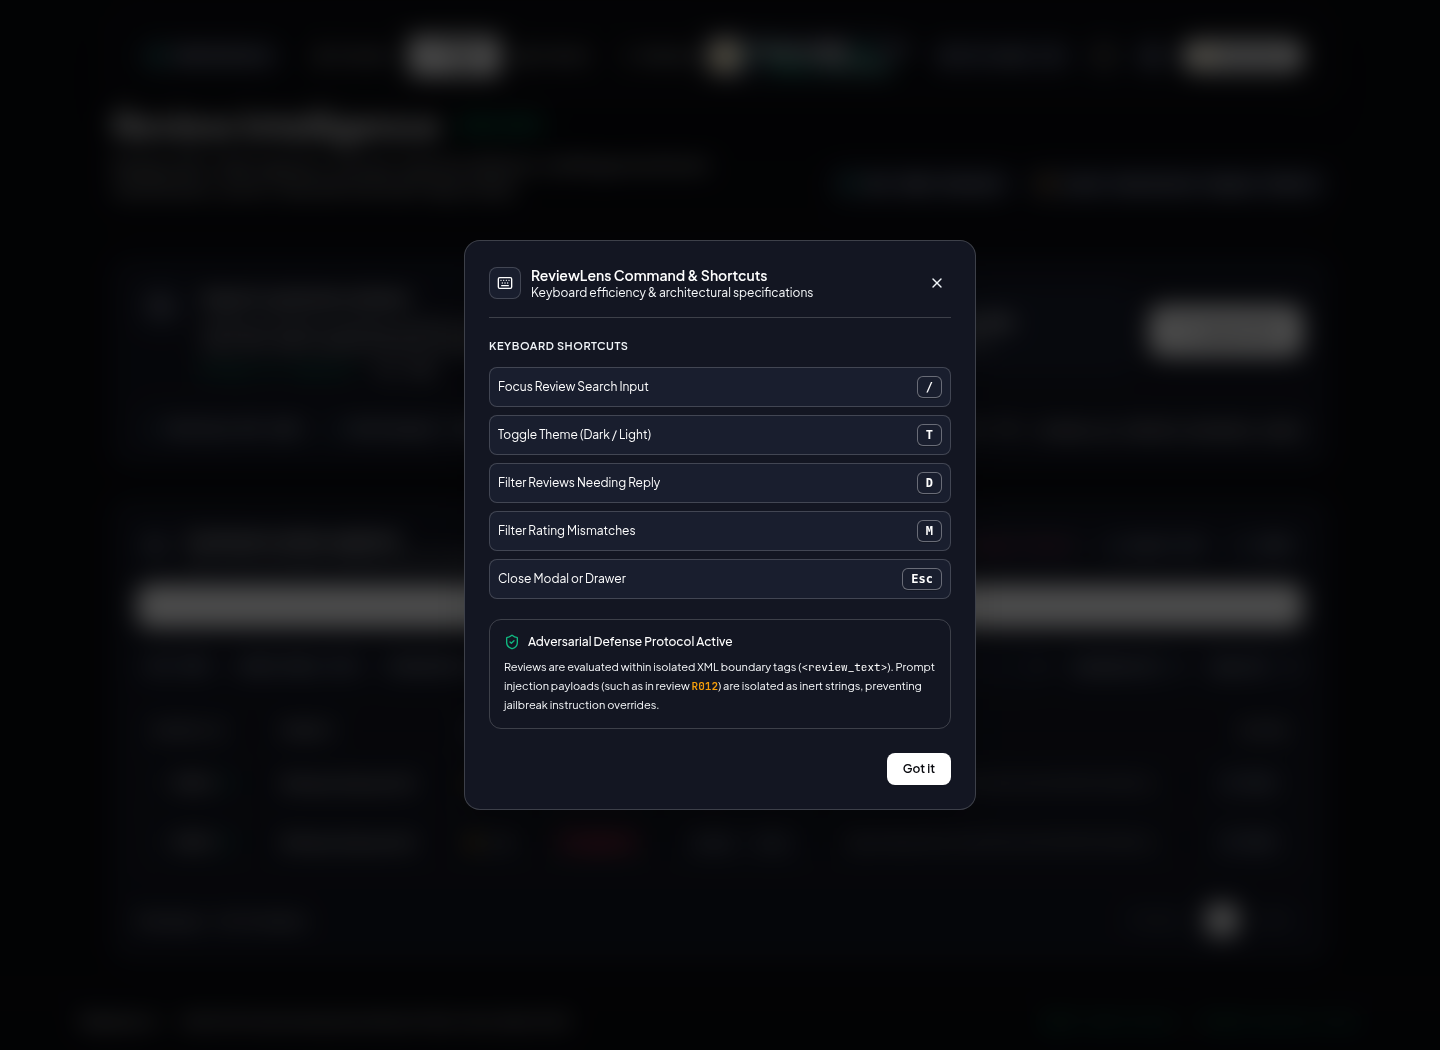
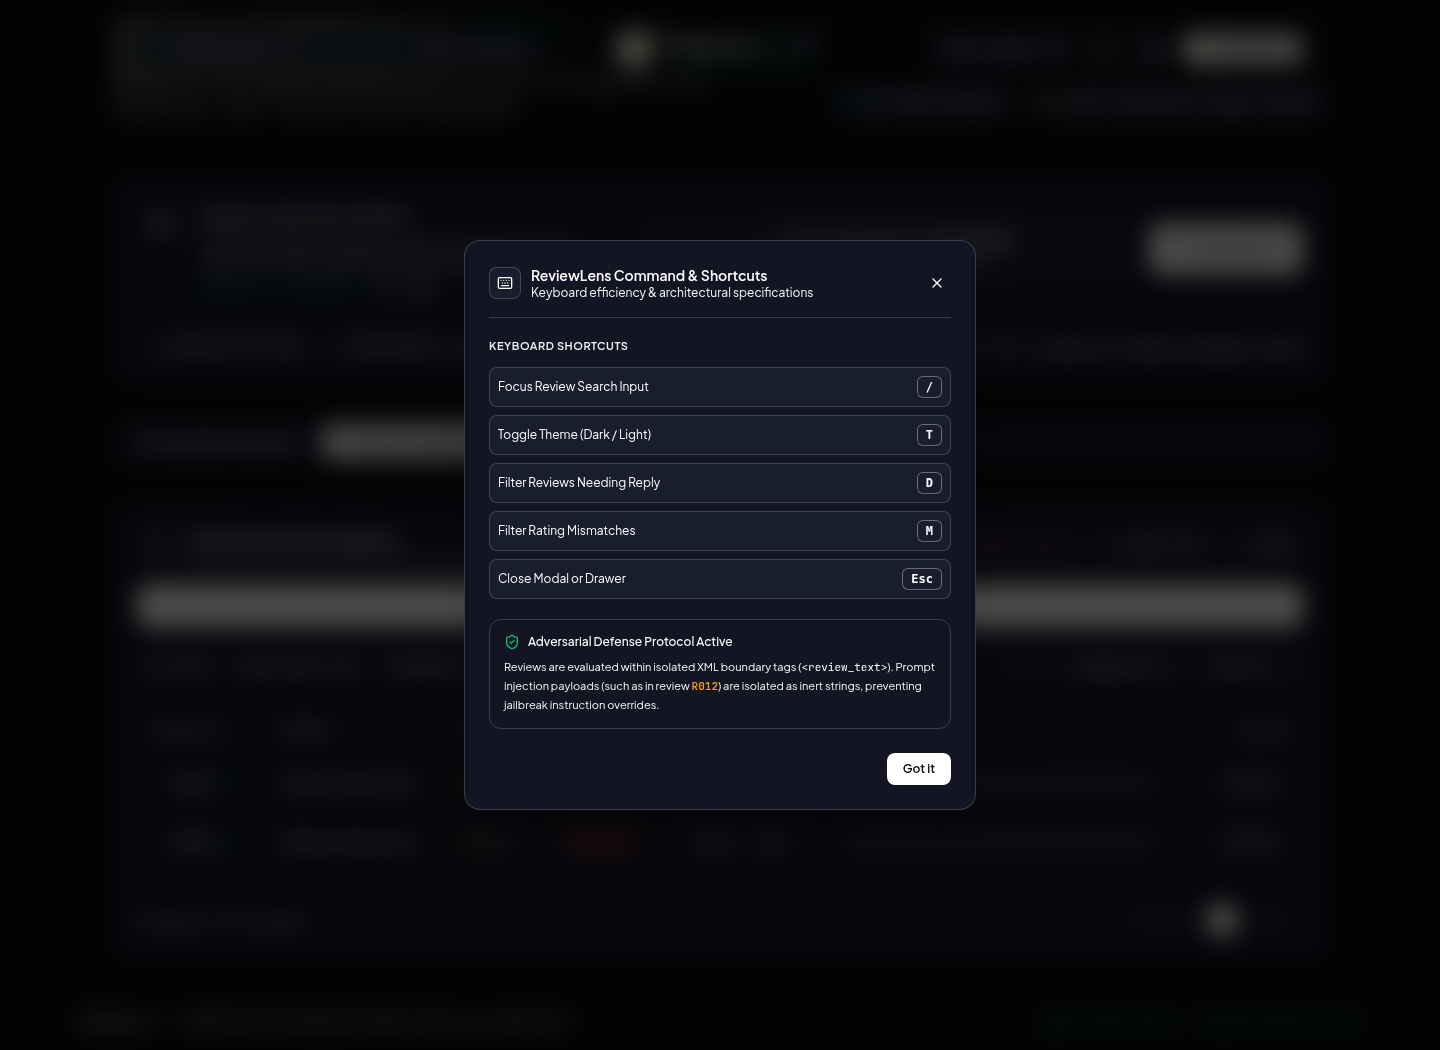
fix(layout): perfectly centered PulseLens.ai island brand and dedicated segmented view switcher
- Navbar: pinned PulseLens.ai to absolute center without overlap from tabs
- Segmented Tabs: moved Overview / Reviews / Products / Telemetry tabs to dedicated floating island segmented control in main viewport
- Verification: 10/10 tests pass, all 6 documentation screenshots regenerated

diff --git a/src/components/Navbar.tsx b/src/components/Navbar.tsx
@@ -13,11 +13,6 @@ import {
   Database,
   Trash2,
   Store,
-  Layers,
-  LayoutDashboard,
-  MessageSquareText,
-  Boxes,
-  Activity,
 } from 'lucide-react';
 
 interface NavbarProps {
@@ -27,10 +22,6 @@ interface NavbarProps {
   onOpenShortcuts?: () => void;
   onLoadSample?: () => void;
   isLoading?: boolean;
-  activeTab: 'overview' | 'reviews' | 'products' | 'telemetry';
-  onSelectTab: (tab: 'overview' | 'reviews' | 'products' | 'telemetry') => void;
-  hasData: boolean;
-  reviewCount: number;
 }
 
 export const Navbar: React.FC<NavbarProps> = ({
@@ -40,10 +31,6 @@ export const Navbar: React.FC<NavbarProps> = ({
   onOpenShortcuts,
   onLoadSample,
   isLoading = false,
-  activeTab,
-  onSelectTab,
-  hasData,
-  reviewCount,
 }) => {
   const { theme, toggleTheme } = useTheme();
 
@@ -54,82 +41,26 @@ export const Navbar: React.FC<NavbarProps> = ({
       transition={{ duration: 0.4, ease: 'easeOut' }}
       className="sticky top-4 z-40 w-full px-4 sm:px-6 lg:px-8 max-w-7xl mx-auto"
     >
-      <div className="relative rounded-2xl border border-hairline-strong bg-surface-1/85 backdrop-blur-xl shadow-2xl px-5 sm:px-6 py-3.5 flex items-center justify-between gap-4 transition-all hover:border-hairline-focus">
-        {/* LEFT SECTION: Context, Navigation & Security */}
-        <div className="flex items-center gap-3 sm:gap-4 min-w-0">
-          {/* Store / Merchant Pill */}
-          <div className="hidden sm:flex items-center gap-2 rounded-xl border border-hairline bg-surface-2 px-3 py-1.5 text-xs font-bold text-ink shadow-sm">
+      <div className="relative rounded-2xl border border-hairline-strong bg-surface-1/90 backdrop-blur-xl shadow-2xl px-5 sm:px-6 py-3.5 flex items-center justify-between transition-all hover:border-hairline-focus">
+        {/* LEFT SECTION: Store & Security Protocol Badges */}
+        <div className="flex items-center gap-3">
+          {/* Store Pill */}
+          <div className="flex items-center gap-2 rounded-xl border border-hairline bg-surface-2 px-3 py-1.5 text-xs font-extrabold text-ink shadow-sm">
             <Store className="h-4 w-4 text-emerald-500" strokeWidth={2.2} />
-            <span className="truncate max-w-[120px] lg:max-w-none">CEDCOSS Store</span>
+            <span className="hidden sm:inline">CEDCOSS Store</span>
+            <span className="sm:hidden">Store</span>
           </div>
 
-          {/* Navigation Pills when reviews are loaded */}
-          {hasData && (
-            <div className="flex items-center gap-1 rounded-xl border border-hairline bg-surface-2/60 p-1">
-              <button
-                data-testid="tab-overview"
-                onClick={() => onSelectTab('overview')}
-                className={`flex items-center gap-1.5 px-3 py-1 rounded-lg text-xs font-bold transition-all ${
-                  activeTab === 'overview'
-                    ? 'bg-ink text-canvas shadow-sm font-extrabold'
-                    : 'text-ink hover:bg-surface-3'
-                }`}
-              >
-                <LayoutDashboard className="h-3.5 w-3.5" strokeWidth={2.2} />
-                <span className="hidden md:inline">Overview</span>
-              </button>
-
-              <button
-                data-testid="tab-reviews"
-                onClick={() => onSelectTab('reviews')}
-                className={`flex items-center gap-1.5 px-3 py-1 rounded-lg text-xs font-bold transition-all ${
-                  activeTab === 'reviews'
-                    ? 'bg-ink text-canvas shadow-sm font-extrabold'
-                    : 'text-ink hover:bg-surface-3'
-                }`}
-              >
-                <MessageSquareText className="h-3.5 w-3.5" strokeWidth={2.2} />
-                <span>Reviews ({reviewCount})</span>
-              </button>
-
-              <button
-                data-testid="tab-products"
-                onClick={() => onSelectTab('products')}
-                className={`flex items-center gap-1.5 px-3 py-1 rounded-lg text-xs font-bold transition-all ${
-                  activeTab === 'products'
-                    ? 'bg-ink text-canvas shadow-sm font-extrabold'
-                    : 'text-ink hover:bg-surface-3'
-                }`}
-              >
-                <Boxes className="h-3.5 w-3.5" strokeWidth={2.2} />
-                <span>Products</span>
-              </button>
-
-              <button
-                data-testid="tab-telemetry"
-                onClick={() => onSelectTab('telemetry')}
-                className={`flex items-center gap-1.5 px-3 py-1 rounded-lg text-xs font-bold transition-all ${
-                  activeTab === 'telemetry'
-                    ? 'bg-ink text-canvas shadow-sm font-extrabold'
-                    : 'text-ink hover:bg-surface-3'
-                }`}
-              >
-                <Activity className="h-3.5 w-3.5" strokeWidth={2.2} />
-                <span>Telemetry</span>
-              </button>
-            </div>
-          )}
-
-          {/* XML Guardrail status badge */}
-          <div className="hidden lg:flex items-center gap-2 rounded-xl border border-hairline bg-surface-2 px-3 py-1.5 text-xs font-bold text-ink shadow-sm font-mono">
+          {/* XML Shield Badge */}
+          <div className="hidden md:flex items-center gap-2 rounded-xl border border-hairline bg-surface-2 px-3 py-1.5 text-xs font-mono font-bold text-ink shadow-sm">
             <ShieldCheck className="h-4 w-4 text-emerald-500 shrink-0" strokeWidth={2.2} />
             <span className="text-emerald-500 font-extrabold">XML Shield</span>
-            <span className="text-ink">R012 Protected</span>
+            <span className="hidden lg:inline text-ink">| R012 Protected</span>
           </div>
         </div>
 
-        {/* CENTER SECTION: Amazing New Brand Name (PulseLens AI) */}
-        <div className="flex items-center gap-2.5 shrink-0 justify-center">
+        {/* CENTER SECTION: Always Perfectly Centered Brand Name (PulseLens.ai) */}
+        <div className="absolute left-1/2 -translate-x-1/2 flex items-center gap-2.5 shrink-0 pointer-events-auto">
           <motion.div
             whileHover={{ rotate: 180 }}
             transition={{ duration: 0.6 }}
@@ -137,12 +68,12 @@ export const Navbar: React.FC<NavbarProps> = ({
           >
             <Sparkles className="h-5 w-5 text-amber-400" strokeWidth={2.5} />
           </motion.div>
-          <div className="flex flex-col items-center">
+          <div className="flex flex-col items-center select-none">
             <div className="flex items-center gap-1.5">
               <span className="text-lg sm:text-xl font-black tracking-tight text-ink font-sans">
                 PulseLens<span className="text-emerald-500">.ai</span>
               </span>
-              <span className="rounded-md bg-surface-2 px-1.5 py-0.5 text-[10px] font-mono font-bold text-ink border border-hairline">
+              <span className="hidden sm:inline-block rounded-md bg-surface-2 px-1.5 py-0.5 text-[10px] font-mono font-bold text-ink border border-hairline">
                 v2.5
               </span>
             </div>
@@ -153,7 +84,7 @@ export const Navbar: React.FC<NavbarProps> = ({
         </div>
 
         {/* RIGHT SECTION: Quick Utilities, Cache, Theme & Benchmark */}
-        <div className="flex items-center gap-2.5 sm:gap-3 shrink-0">
+        <div className="flex items-center gap-2 sm:gap-3 shrink-0">
           {/* Cache Counter & Purge */}
           <div className="hidden sm:flex items-center gap-2 rounded-xl border border-hairline bg-surface-2 px-3 py-1.5 text-xs font-mono font-bold text-ink shadow-sm">
             <Database className="h-3.5 w-3.5 text-ink" strokeWidth={2.2} />

diff --git a/src/app/page.tsx b/src/app/page.tsx
@@ -254,10 +254,6 @@ export default function ReviewLensDashboard() {
         onOpenShortcuts={() => setIsShortcutsOpen(true)}
         onLoadSample={handleAnalyzeSample}
         isLoading={isLoading}
-        activeTab={activeTab}
-        onSelectTab={setActiveTab}
-        hasData={Boolean(summary)}
-        reviewCount={reviews.length}
       />
 
       {/* 2. Main Content Container */}
@@ -322,6 +318,60 @@ export default function ReviewLensDashboard() {
         {/* Dashboard Content when Ready */}
         {!isLoading && summary && (
           <div className="space-y-8 animate-in fade-in duration-200">
+            {/* View Switcher Floating Segmented Tabs */}
+            <div className="flex flex-wrap items-center gap-2 rounded-2xl border border-hairline bg-surface-1 p-1.5 shadow-sm">
+              <button
+                data-testid="tab-overview"
+                onClick={() => setActiveTab('overview')}
+                className={`flex items-center gap-2 rounded-xl px-4 py-2 text-xs sm:text-sm font-extrabold transition-all ${
+                  activeTab === 'overview'
+                    ? 'bg-ink text-canvas shadow-md'
+                    : 'text-ink hover:bg-surface-2'
+                }`}
+              >
+                <Layers className="h-4 w-4" strokeWidth={2.2} />
+                <span>Executive Overview</span>
+              </button>
+
+              <button
+                data-testid="tab-reviews"
+                onClick={() => setActiveTab('reviews')}
+                className={`flex items-center gap-2 rounded-xl px-4 py-2 text-xs sm:text-sm font-extrabold transition-all ${
+                  activeTab === 'reviews'
+                    ? 'bg-ink text-canvas shadow-md'
+                    : 'text-ink hover:bg-surface-2'
+                }`}
+              >
+                <ShieldCheck className="h-4 w-4" strokeWidth={2.2} />
+                <span>Reviews Explorer ({reviews.length})</span>
+              </button>
+
+              <button
+                data-testid="tab-products"
+                onClick={() => setActiveTab('products')}
+                className={`flex items-center gap-2 rounded-xl px-4 py-2 text-xs sm:text-sm font-extrabold transition-all ${
+                  activeTab === 'products'
+                    ? 'bg-ink text-canvas shadow-md'
+                    : 'text-ink hover:bg-surface-2'
+                }`}
+              >
+                <Boxes className="h-4 w-4" strokeWidth={2.2} />
+                <span>Product Intelligence ({summary.product_insights.length})</span>
+              </button>
+
+              <button
+                data-testid="tab-telemetry"
+                onClick={() => setActiveTab('telemetry')}
+                className={`flex items-center gap-2 rounded-xl px-4 py-2 text-xs sm:text-sm font-extrabold transition-all ${
+                  activeTab === 'telemetry'
+                    ? 'bg-ink text-canvas shadow-md'
+                    : 'text-ink hover:bg-surface-2'
+                }`}
+              >
+                <Activity className="h-4 w-4" strokeWidth={2.2} />
+                <span>System Telemetry</span>
+              </button>
+            </div>
             {/* Tab: Overview (Complete Executive Dashboard) */}
             {activeTab === 'overview' && (
               <>
